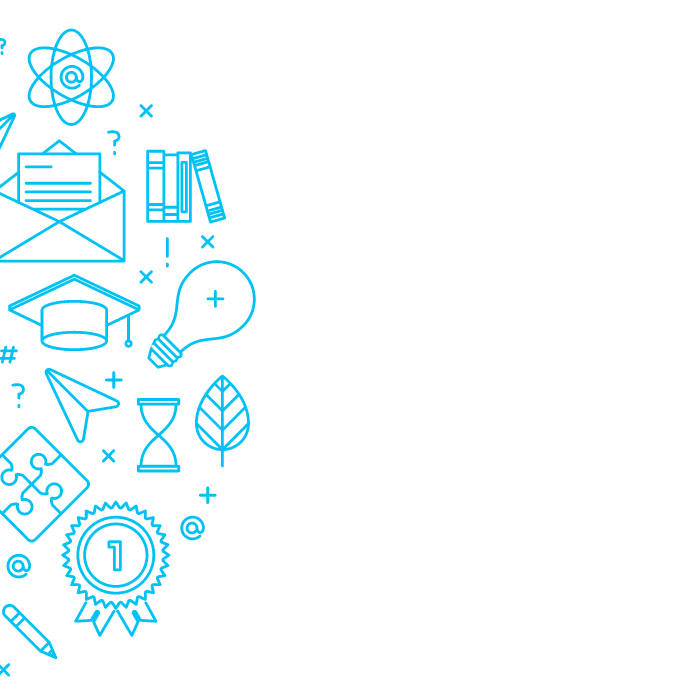
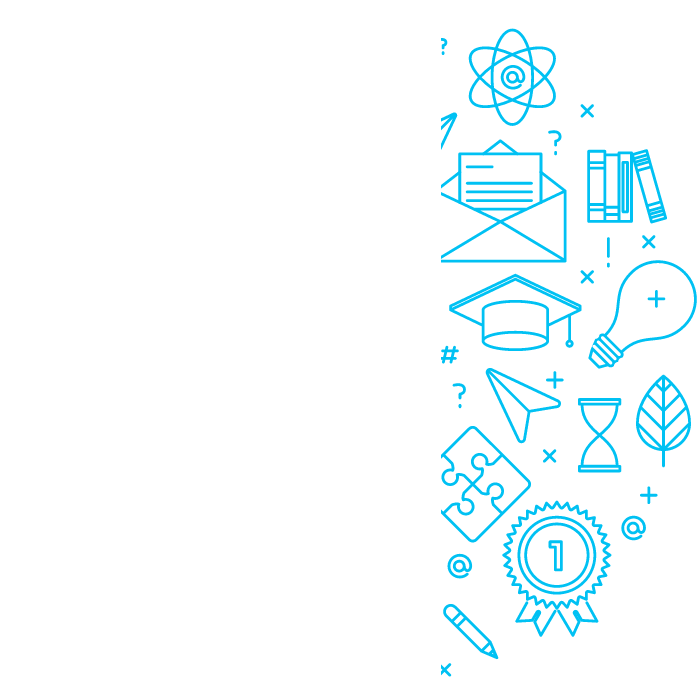
css index corrigido para porcentagem

diff --git a/atendimento/static/atendimento/style/style.css b/atendimento/static/atendimento/style/style.css
@@ -1,4 +1,6 @@
 
+/* FONTES */
+
 .montserrat-1 {
   font-family: "Montserrat", sans-serif;
   font-optical-sizing: auto;
@@ -34,6 +36,8 @@
     font-style: normal;
 }
 
+/* COR FONTE */
+
 .text-ism-dark-blue {
     --tw-text-opacity: 1;
     color: rgba(0, 142, 212, var(--tw-text-opacity));
@@ -44,110 +48,80 @@
     color: rgba(0, 37, 97, var(--tw-text-opacity));
 }
 
-.popuplogin {
-    position: fixed;
-    font-family: "Montserrat", sans-serif;
-    top: 0;
-    right: 0;
-    bottom: 0;
-    left: 0;
-    background: rgba(0, 0, 0, 0.8);
-    z-index: 99999;
-    opacity: 0;
-    -webkit-transition: opacity 400ms ease-in;
-    -moz-transition: opacity 400ms ease-in;
-    transition: opacity 400ms ease-in;
-    pointer-events: none;
-    display: flex;
-    align-items: center;
-}
+/* IMAGENS: Logo e Background */
 
-.popuplogin:target {
-    opacity: 1;
-    pointer-events: auto;
-}
-
-.popuplogin > div {
-    width: 400px;
-    position: relative;
-    margin: 10% auto;
-    padding: 5px 20px 13px 20px;
-    border-radius: 5px;
-    background: #fff;
-}
-
-.close {
-    background: rgba(0, 142, 212);
-    color: #FFFFFF;
-    line-height: 25px;
-    position: absolute;
-    right: -12px;
-    text-align: center;
-    top: -10px;
-    width: 24px;
-    text-decoration: none;
-    font-weight: bold;
-    -webkit-border-radius: 12px;
-    -moz-border-radius: 12px;
-    border-radius: 12px;
-    -moz-box-shadow: 1px 1px 3px #000;
-    -webkit-box-shadow: 1px 1px 3px #000;
-    box-shadow: 1px 1px 3px #000;
-}
-
-.close:hover {
-    background: #00d9ff;
-}
-
-body {
-    font-family: "Montserrat", Arial, sans-serif;
-    margin: 0;
-    padding: 0;
+.logo {
+    width: 25%; 
+    height: auto;
+    margin-left: 30%;
 }
 
 .backgroundindex1 {
-    position: absolute;
-    top: 130px;
-    left: 0px;
-    width: 550px;
+    position: fixed;
+    top: 10%;
+    left: -23%;
+    width: 35%;
     height: auto;
 }
 
 .backgroundindex2 {
-    position: absolute;
-    top: 130px;
-    right: 0px;
-    width: 550px;
+    position: fixed;
+    top: 10%;
+    right: -23%;
+    width: 35%;
     height: auto;
+}
+
+/* PRINCIPAL */
+
+body {
+    font-family: "Montserrat", Arial, sans-serif;
+    margin: 0%;
+    padding: 0%;
 }
 
 header {
     display: flex;
     justify-content: space-between;
     align-items: center;
-    padding: 20px;
+    padding: 1%;
     background-color: #ffffff;
-}
-
-.logo {
-    width: 70px; 
-    height: 70px;
-    margin-left: 60px;
 }
 
 .botaoheader_acessar {
     text-align: right;
-    margin-right: 60px;
+    margin-right: 10%;
     
 }
 
-.texto1, .texto2 {
+.textos {
+    justify-content: center;
+    align-items: center;
     text-align: center; 
-    margin-top: 20px;
-    font-size: 20px;
+    margin-top: 2%;
+    margin-left: 15%;
+    width: 70%;
 }
 
-.bloco1 {
+
+.texto1, .texto2 {
+    font-size: 130%;
+    margin-top: 5%;
+}
+
+.blocos {
+    display: flex;
+    flex-wrap: wrap;
+    justify-content: center;
+    align-items: center;
+}
+
+.blocos > div {
+    margin: 4%;
+    box-shadow: 0px 0px 10px 2px rgba(0, 0, 0, 0.2);
+}
+
+.bloco1, .bloco2 {
     display: flex;
     justify-content: center;
     align-items: center;
@@ -159,50 +133,26 @@ header {
 
 }
 
-.bloco2 {
-    display: flex;
-    justify-content: center;
-    align-items: center;
-    height: 300px;
-    width: 300px;
-    background-color: white; 
-    background-color: white; 
-    padding: 10px;
-}
-
 .block {
-    margin: 0 20px;
+    margin: 0 10px;
     text-align: center;
 }
 
 .block img {
-    width: 130px;
-    height: 130px;
-    border-radius: 50%;
-    margin-bottom: 0px;
-    margin-top: 10px;
+    width: 60%;
+    height: auto;
+    margin-top: 5%;
     
 }
 
 .button-container {
-    margin-top: 10px;
+    margin-top: 1%;
     display: flex;
     flex-direction: column;   
 }
 
 .button-container button {
-    margin-bottom: 25px;
-}
-
-.blocos {
-    display: flex;
-    justify-content: center;
-    align-items: center;
-}
-
-.blocos > div {
-    margin: 80px;
-    box-shadow: 0px 0px 10px 2px rgba(0, 0, 0, 0.1);
+    margin-bottom: 8%;
 }
 
 .botao-tipo1 {
@@ -211,7 +161,7 @@ header {
     border: 2px solid rgb(0, 189, 242);
     border-radius: 20px;
     padding: 8px 18px;
-    font-size: 15px;
+    font-size: 100%;
     cursor: pointer;
     transition: background-color 0.3s ease, color 0.3s ease;
 }
@@ -227,33 +177,7 @@ header {
     border: none;
     border-radius: 20px;
     padding: 10px 20px;
-    font-size: 15px;
+    font-size: 100%;
     cursor: pointer;
-    transition: background-color 0.3s ease;
-}
-
-input[type=submit] {
-    width: 170px;
-    border: 2px solid rgb(0, 189, 242);
-    background-color: rgb(0, 189, 242);
-    cursor: pointer;
-    width: 100%;
-    height: 30px;
-    margin-bottom: 20px;
-    border-radius: 4px;
-}
-
-input[type=email], input[type=password] {
-    border: 2px solid rgb(0, 189, 242);
-    background-color: rgb(0, 189, 242);
-    width: 98%;
-    height: 30px;
-    margin-bottom: 20px;
-    border-radius: 4px;
-}
-
-input[type=submit]:hover {
-    border: 2px solid rgb(0, 165, 242);
-    background-color: rgb(0, 165, 242);
     transition: background-color 0.3s ease;
 }

diff --git a/atendimento/templates/atendimento/index.html b/atendimento/templates/atendimento/index.html
@@ -6,52 +6,40 @@
 <head>
     <meta charset="UTF-8">
     <meta name="viewport" content="width=device-width, initial-scale=1.0">
-    <title>Minha Página Inicial</title>
+    <title>Página Inicial</title>
     <link rel="stylesheet" href="{% static 'atendimento/style/style.css' %}">
 </head>
 <body>
     <header>
         <!-- Logo -->
-        <div class ='imagem'>
+        <div>
             <a href="/">
                 <img class="logo" src="{% static 'atendimento/img/LOGO-ismart.png' %}" alt="Logo da Empresa">
             </a>
         </div>
-        <!-- Botão de acesso geral - POPPUP LOGIN -->
+        <!-- Acessar -->
         <div class="botaoheader_acessar">
             <a href="{% url 'login' %}"><button class="botao-tipo1 montserrat-3">Acessar</button></a>
         </div>
     </header>
     <!-- Background -->
-    <figure>
-        <img src="{% static 'atendimento\img\esquerdaft.png' %}" class="backgroundindex1" alt="backgroundimage1">
-        <img src="{% static 'atendimento\img\direitaft.png' %}" class="backgroundindex2" alt="backgroundimage2">
-    </figure>
-    <!-- Texto 1 -->
-    <div class="texto1 montserrat-2 text-ism-dark-blue">
-        <a>O Ismart oferece acesso à educação de excelência em programas de modalidade presencial e online,</a><br>
-        <a>que incluem bolsa de estudos e acompanhamento individual com foco em desenvolvimento acadêmico e pessoal.</a>
-    </div>
-    <!-- Texto 2 -->
-    <div class="texto2 montserrat-3 text-ism-darker-blue">
-        <a>Você tem alguma dúvida sobre o processo seletivo? Faça login e entre em contato!</a>
-    </div>
-    <!-- Popup Login -->
-    <div id="abrirpopuplogin" class="popuplogin">
-        <div>
-            <a href="/" title="Close" class="close">X</a>
-            <h2>LOGIN</h2>
-            <form method="POST" action="{% url 'login' %}" novalidate>
-                {% csrf_token %}
-                {{ form.as_p }}
-                <input type="submit" value="Entrar" class="montserrat-3">
-                <a href="{% url 'register' %}" title="Recuperar Senha" class="text-ism-darker-blue montserrat-1">Recuperar Senha</a>
-            </form>
+    <img src="{% static 'atendimento\img\esquerdaft.png' %}" class="backgroundindex1" alt="backgroundimage1">
+    <img src="{% static 'atendimento\img\direitaft.png' %}" class="backgroundindex2" alt="backgroundimage2">
+    <!-- Textos -->
+    <div class="textos">
+        <!-- Texto 1 -->
+        <div class="texto1 montserrat-2 text-ism-dark-blue">
+            <a>O Ismart oferece acesso à educação de excelência em programas de modalidade presencial e online, que incluem bolsa de estudos e acompanhamento individual com foco em desenvolvimento acadêmico e pessoal.</a>
+        </div>
+        <!-- Texto 2 -->
+        <div class="texto2 montserrat-3 text-ism-darker-blue">
+            <a>Você tem alguma dúvida sobre o processo seletivo? Faça login e entre em contato!</a>
         </div>
     </div>
+    <!-- Blocos -->
     <div class="blocos">
         <!-- Bloco 1 -->
-        <div class="bloco1">
+        <div class="bloco1 block">
             <div class="block">
                 <img src="{% static 'atendimento/img/graduation-pack.d677bbbb.svg' %}" alt="Imagem 1">
                 <p class="text-ism-darker-blue montserrat-4">Sou Candidato(a)</p>
@@ -60,7 +48,7 @@
                         <button class="botao-tipo1 montserrat-3">Acessar</button>
                     </a>
                     <a href="{% url 'register' %}">
-                        <button class="botao-tipo1 montserrat-3">INSCREVA-SE</button>
+                        <button class="botao-tipo2 montserrat-3">INSCREVA-SE</button>
                     </a>
                 </div>
             </div>
